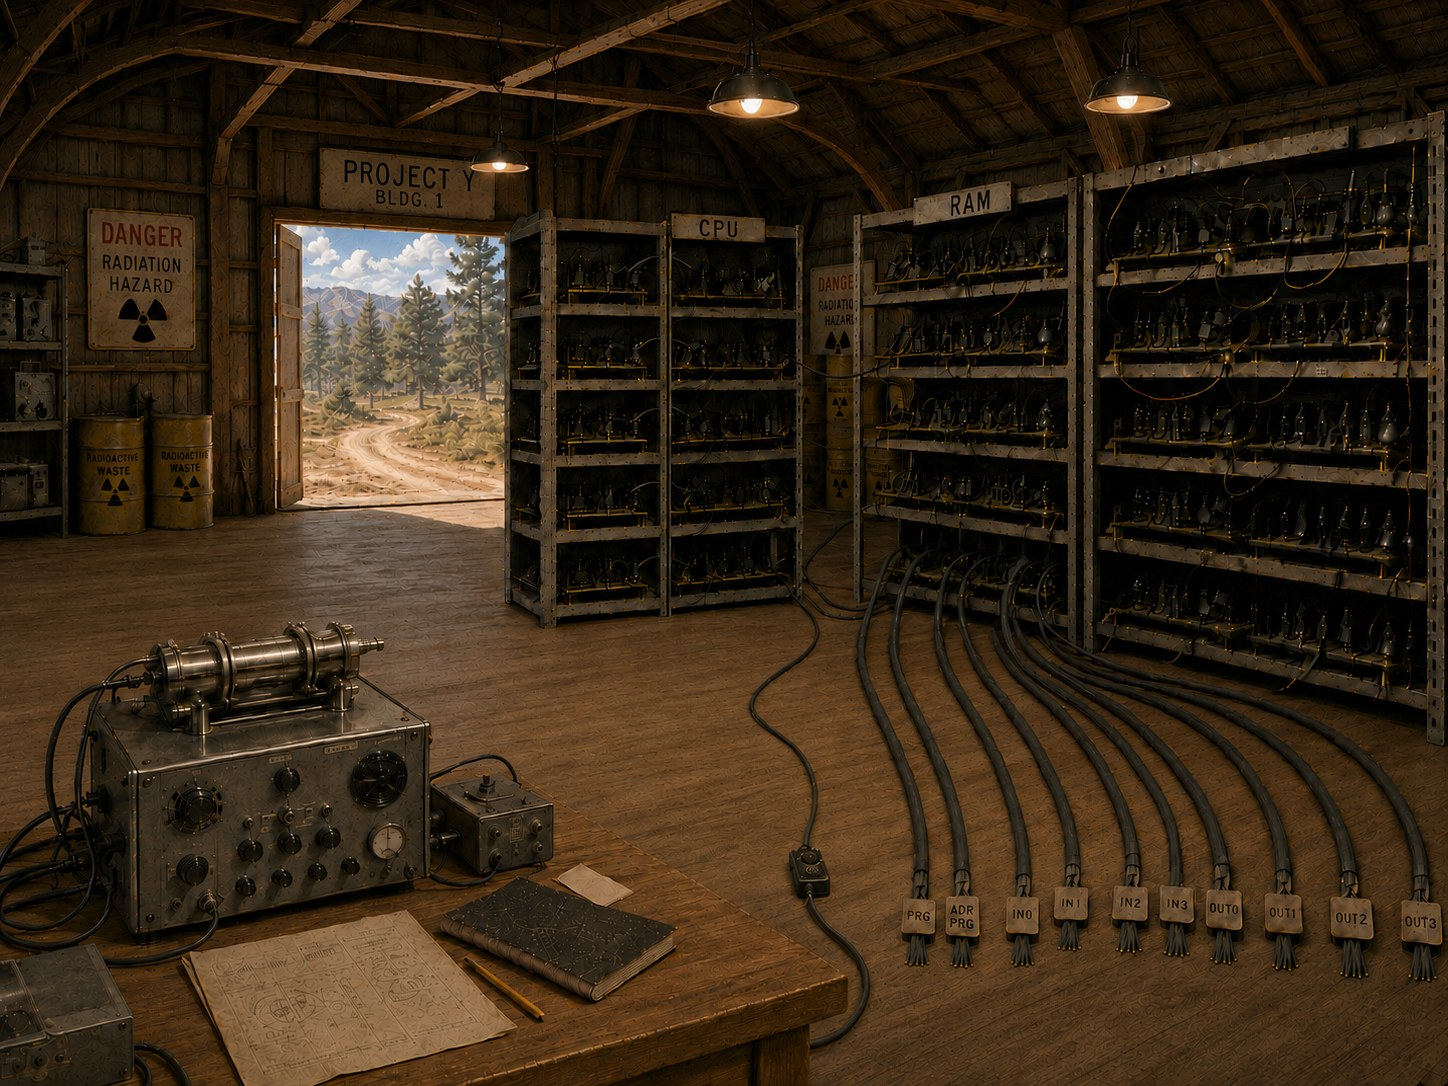
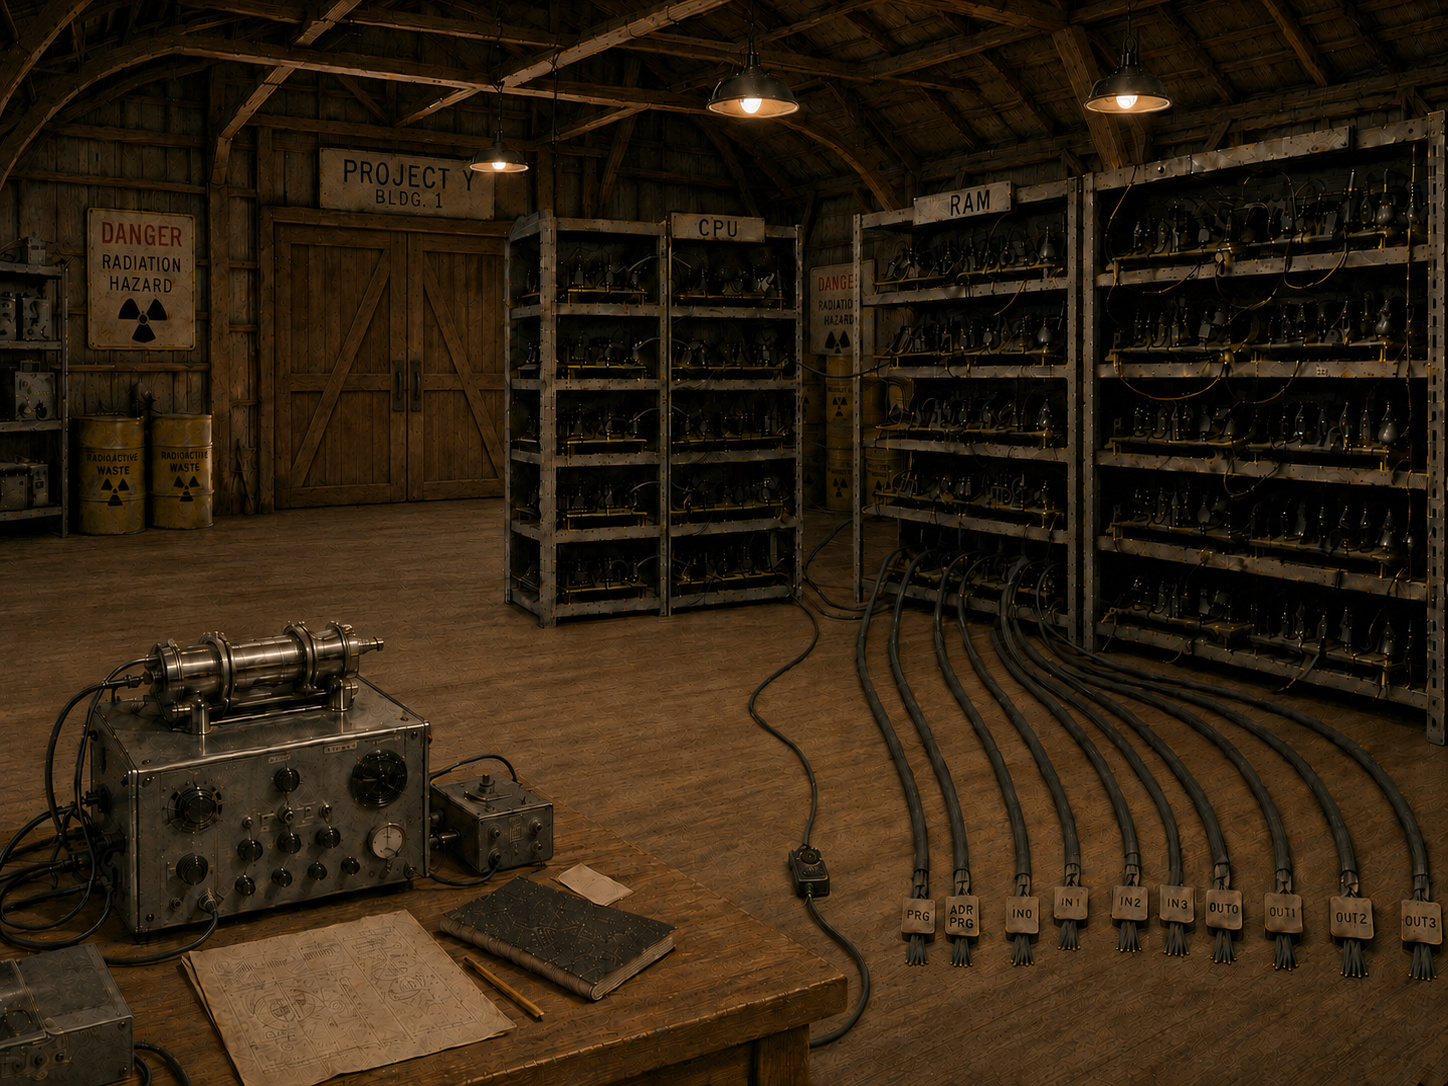
Chapter-4 art update; tails off the face; the forward key follows the button
- The seven redrawn chapter-4 rasters (doors shut throughout) replace their
  originals. The room SVGs are untouched, and check-svg-zones confirms every
  room still draws its zones from its own file.
- 247 drops the generated night raster and shows the Los Alamos night
  desert (112_2.4_night.jpg) that the chapter breaks already use.
- 245/246's tails were tipped at von Neumann's mouth, so they lay across his
  face; they now stop just clear of his cheek, and both bubbles moved right
  to keep the tail a proper length.
- The forward key was blocked on ANY slide carrying a hotspot, even when the
  zones were only things to read about and המשך itself was enabled — so the
  keyboard died at the end of 3.6 (the hangar objects). The rule the button
  uses is now a function both ask, blockingPanelHotspots().

Claude-Session: https://claude.ai/code/session_01GXEdWPpe5FW6NXL8HuHPJg

diff --git a/js/app.js b/js/app.js
@@ -8973,22 +8973,19 @@
       </main>`;
   }
 
-  function renderStory() {
-    const scene = currentScene();
-    const panel = currentPanel();
-    const panelImage = displayPanelImage(panel);
-    const imageSrc = `${panelImage}?r=${state.replayNonce}`;
-    const year = Object.prototype.hasOwnProperty.call(panel, "year") ? panel.year : (scene.year || "");
-    const imageStageClass = year ? "image-stage" : "image-stage image-stage-no-year";
-    // A "navigational" hotspot (e.g. the return-to-Nand panel) IS the way
-    // forward, so it disables the plain המשך button. Hotspots that merely open
-    // an external reference, or the reserved Stone-Millis book, do not — the
-    // learner still advances normally.
-    // The Stone-Millis book is the ONLY way forward from the library slide, so it
-    // disables המשך (and דלג, below) — the learner must go through the notebook.
-    // Reference-link and the reserved binary-booklet hotspots stay non-blocking.
+  // A "navigational" hotspot (e.g. the return-to-Nand panel) IS the way
+  // forward, so it disables the plain המשך button. Hotspots that merely open
+  // an external reference, or the reserved Stone-Millis book, do not — the
+  // learner still advances normally.
+  // The Stone-Millis book is the ONLY way forward from the library slide, so it
+  // disables המשך (and דלג) — the learner must go through the notebook.
+  // Reference-link and the reserved binary-booklet hotspots stay non-blocking.
+  // The forward KEY asks this too, so it is blocked exactly where the button is:
+  // a slide whose only zones are things to read about (3.6's hangar objects, the
+  // waste drums, the popy) is walked on from with the keyboard like any other.
+  function blockingPanelHotspots(panel) {
     const nonBlockingActions = ["binary-booklet", "nail-box"];
-    const blockingHotspots = panelHotspots(panel).filter((h) => {
+    return panelHotspots(panel).filter((h) => {
       if (h.url || nonBlockingActions.includes(h.action)) return false;
       // A story object blocks המשך when it IS the way forward: taking it (the
       // dosimeter), or opening what it holds (the note on the table — the page of
@@ -9005,6 +9002,16 @@
       }
       return true;
     });
+  }
+
+  function renderStory() {
+    const scene = currentScene();
+    const panel = currentPanel();
+    const panelImage = displayPanelImage(panel);
+    const imageSrc = `${panelImage}?r=${state.replayNonce}`;
+    const year = Object.prototype.hasOwnProperty.call(panel, "year") ? panel.year : (scene.year || "");
+    const imageStageClass = year ? "image-stage" : "image-stage image-stage-no-year";
+    const blockingHotspots = blockingPanelHotspots(panel);
     // A panel with a numeric question is the way forward: המשך (and דלג) are
     // blocked until the learner types the right answer (see checkPanelAnswer).
     const questionGate = Boolean(panel.question);
@@ -26484,7 +26491,7 @@
       event.preventDefault();
       return previousPanel();
     }
-    if ((event.key === "ArrowLeft" || event.key === " ") && panelHotspots(currentPanel()).length) {
+    if ((event.key === "ArrowLeft" || event.key === " ") && blockingPanelHotspots(currentPanel()).length) {
       event.preventDefault();
       return;
     }

diff --git a/index.html b/index.html
@@ -10,7 +10,7 @@
 </head>
 <body>
   <div id="app" class="app"></div>
-  <script src="js/data.js?v=v121-bubbles-1" defer></script>
+  <script src="js/data.js?v=v122-ch4-art-1" defer></script>
   <script src="js/app-data.js?v=v614-more-explanations-1" defer></script>
   <script src="js/achievements-data.js?v=v11-prg43-achv-1" defer></script>
   <script src="js/achievement-icons.js?v=v9-prg43-icons-1" defer></script>
@@ -33,7 +33,7 @@
   <script src="js/splitter-resize.js?v=v1-splitter-drag-1" defer></script>
   <script src="js/rankings.js?v=v12-software-rankings-1" defer></script>
   <script src="assets/solutions/solutions.js?v=v28-computer0-json-3" defer></script>
-  <script src="js/app.js?v=v690-bubbles-clear-kb-1" defer></script>
+  <script src="js/app.js?v=v691-hotspot-key-1" defer></script>
   <script src="js/warehouse-hotspots.js?v=v61-object-zones-1" defer></script>
   <script src="js/auth-config.js?v=v2-keys-1" defer></script>
   <script src="js/auth.js?v=v8-design-dim-1" defer></script>
